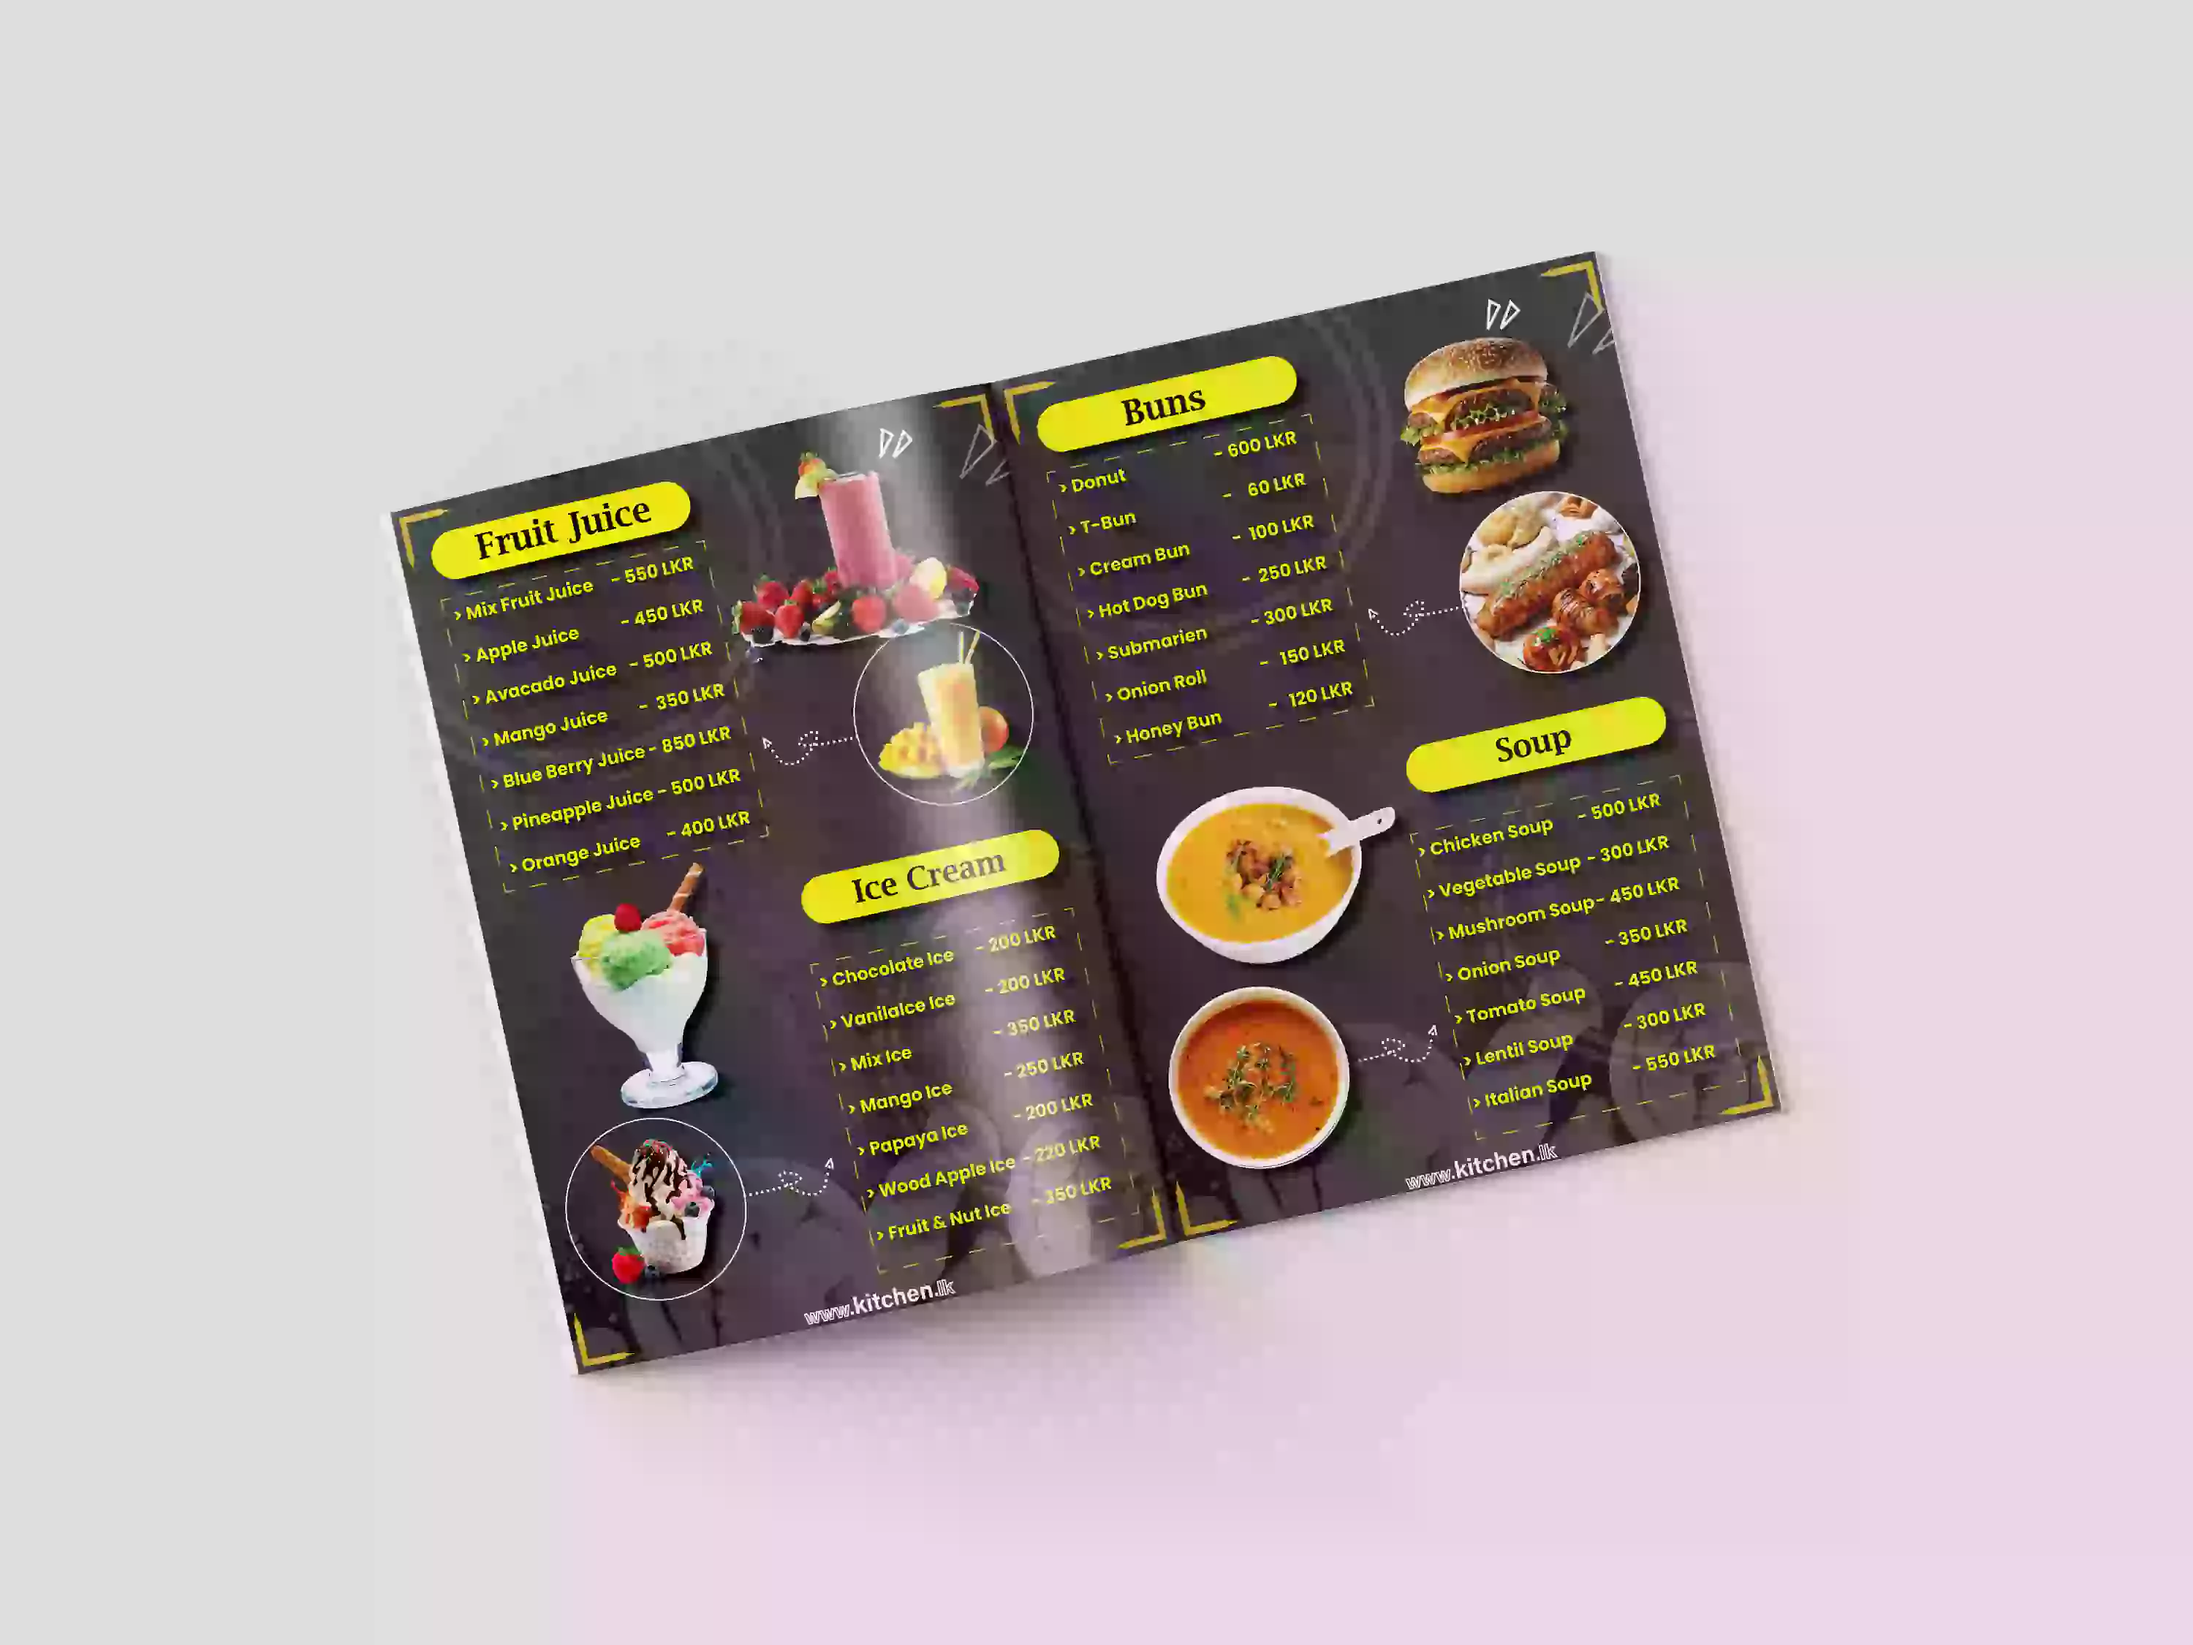
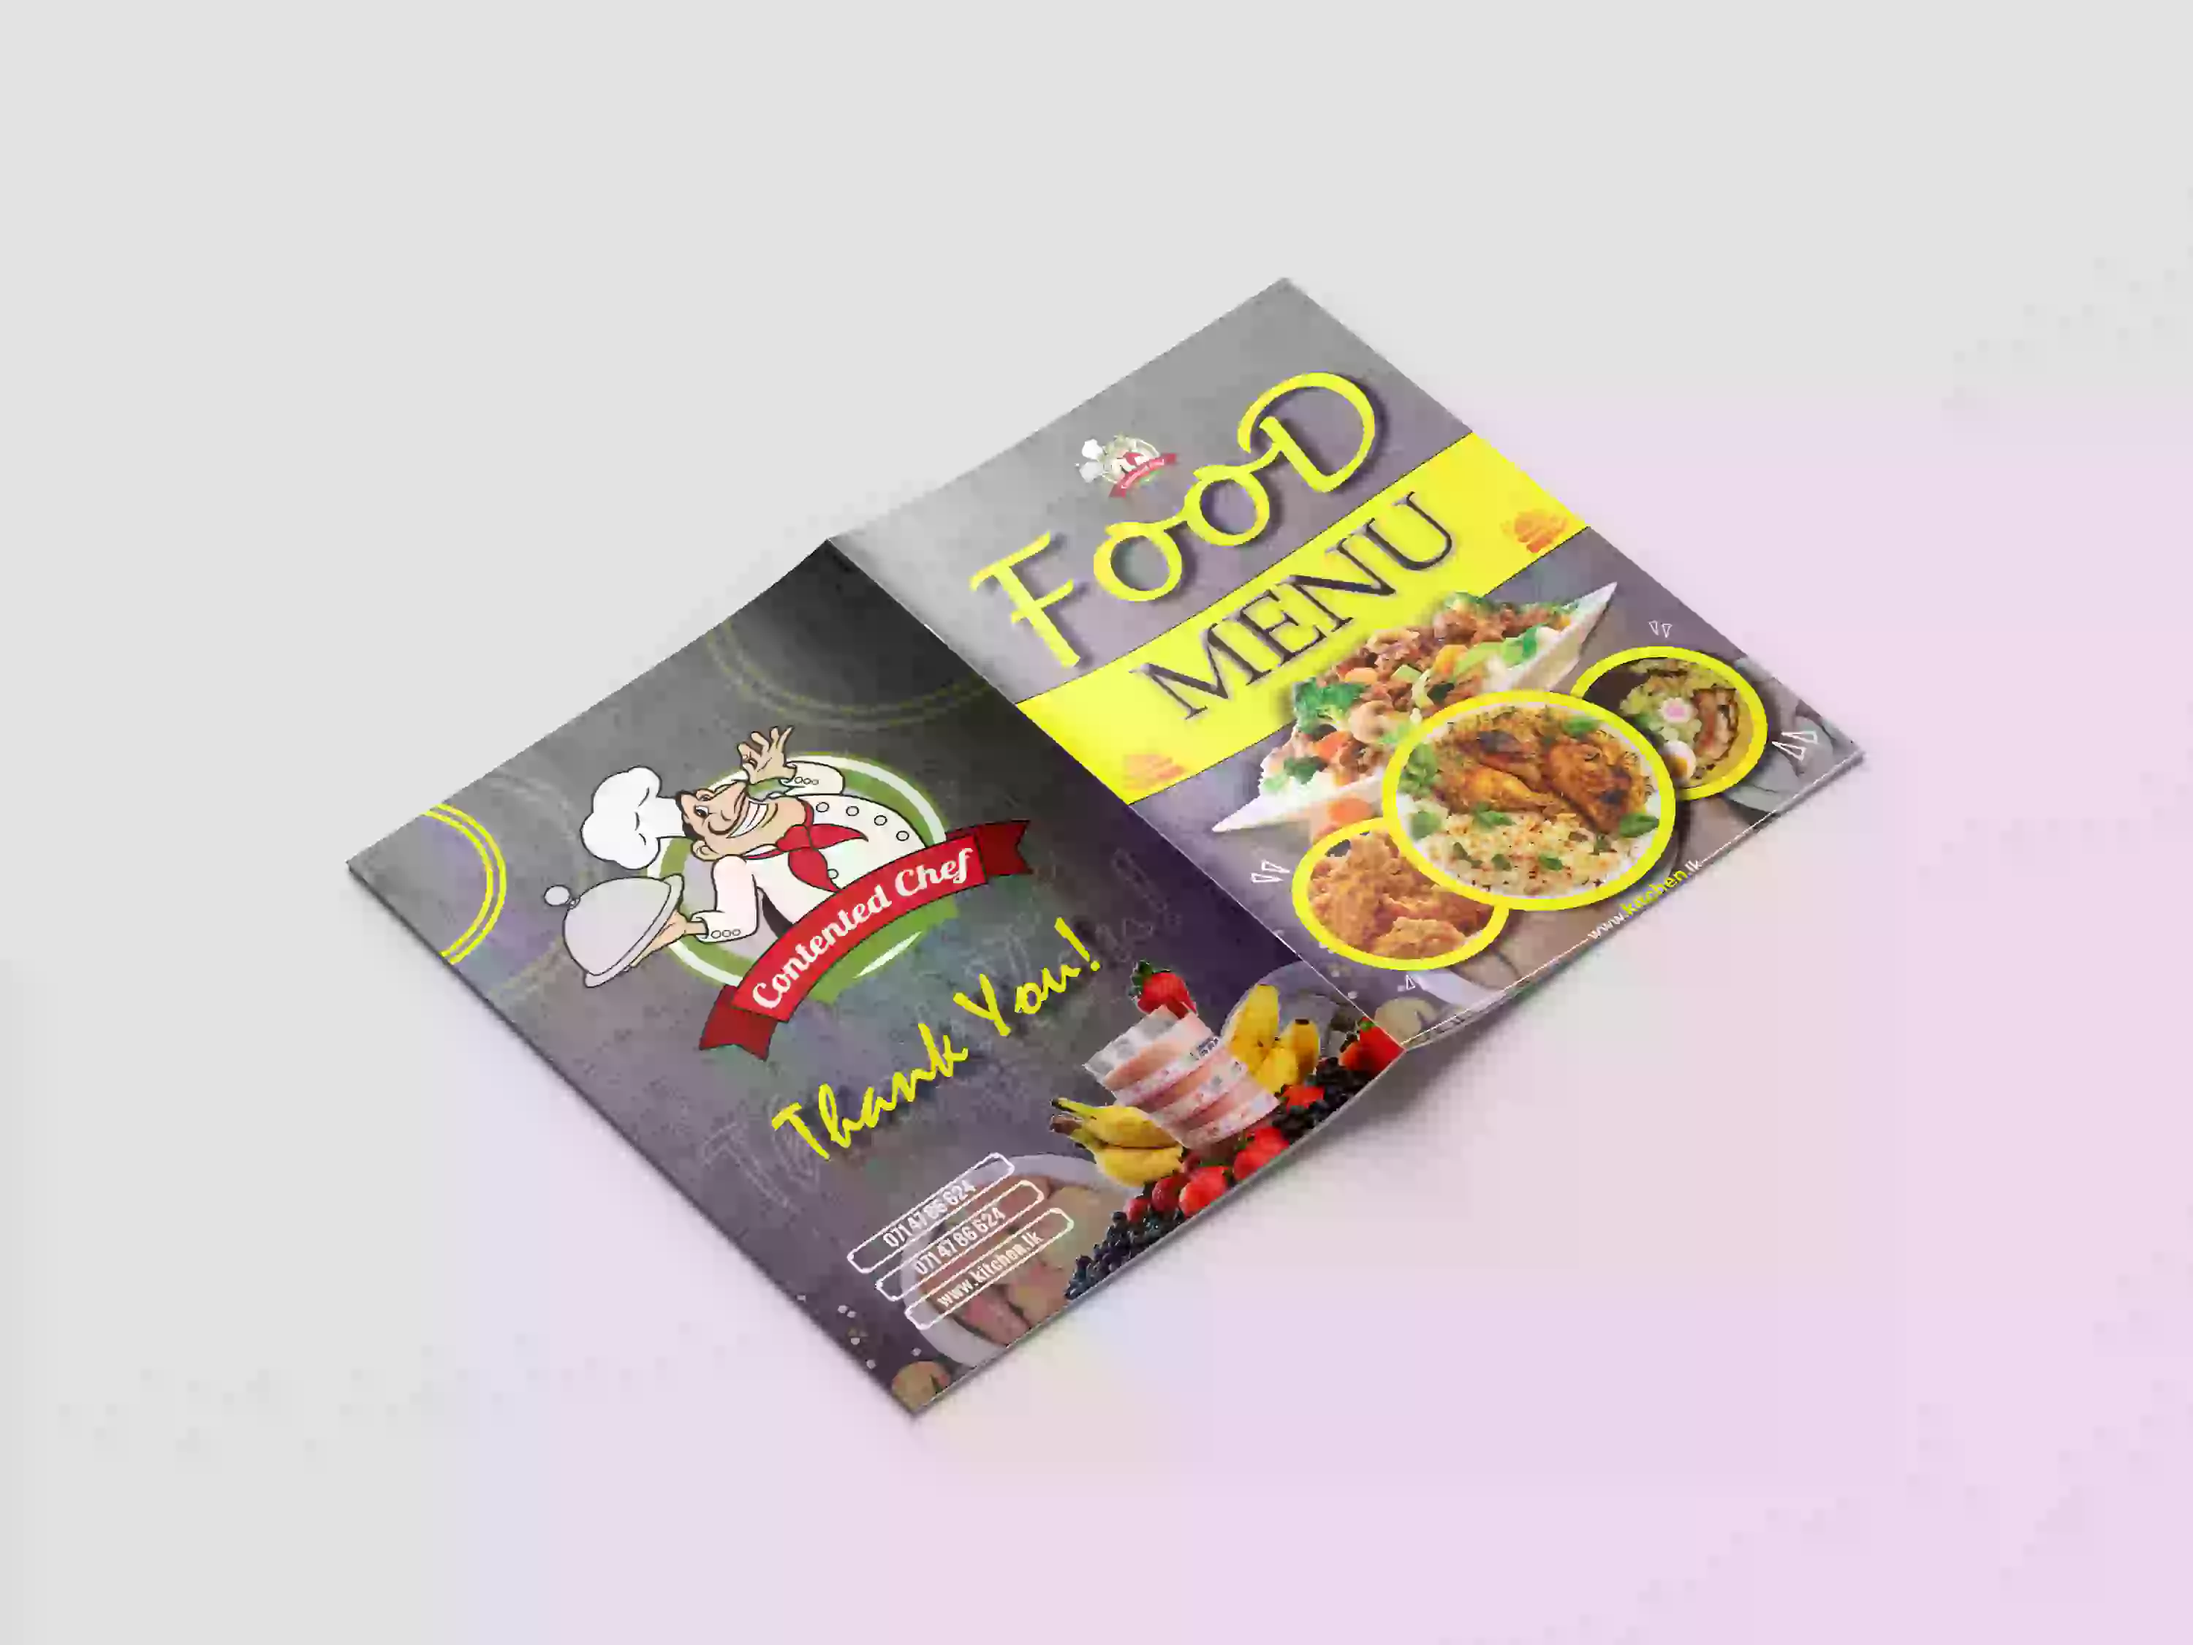
ADD DESIGN

diff --git a/portfolio.html b/portfolio.html
@@ -105,8 +105,8 @@
               <div class="swiper-wrapper">
                 <div class="swiper-slide">
                   <div class="portfolio-item">
-                    <a href="assets/img/portfolio/menu/1.webp" data-gallery="gallery-menu" class="glightbox">
-                        <img src="assets/img/portfolio/menu/1.webp" class="img-fluid" alt="Menu Design">
+                    <a href="assets/img/portfolio/menu/1.jpg" data-gallery="gallery-menu" class="glightbox">
+                        <img src="assets/img/portfolio/menu/1.jpg" class="img-fluid" alt="vouchers Design">
                     </a>
                   </div>
                 </div>
@@ -119,18 +119,117 @@
                 </div>
                 <div class="swiper-slide">
                   <div class="portfolio-item">
-                    <a href="assets/img/portfolio/menu/3.webp" data-gallery="gallery-menu" class="glightbox">
-                        <img src="assets/img/portfolio/menu/3.webp" class="img-fluid" alt="Menu Design">
+                    <a href="assets/img/portfolio/menu/3.jpeg" data-gallery="gallery-menu" class="glightbox">
+                        <img src="assets/img/portfolio/menu/3.jpeg" class="img-fluid" alt="Calendar Design">
                     </a>
                   </div>
                 </div>
+                <div class="swiper-slide">
+                  <div class="portfolio-item">
+                    <a href="assets/img/portfolio/menu/4.jpg" data-gallery="gallery-menu" class="glightbox">
+                        <img src="assets/img/portfolio/menu/4.jpg" class="img-fluid" alt="T-Shirt Design">
+                    </a>
+                  </div>
+                </div>
+                <div class="swiper-slide">
+                  <div class="portfolio-item">
+                    <a href="assets/img/portfolio/menu/5.jpeg" data-gallery="gallery-menu" class="glightbox">
+                        <img src="assets/img/portfolio/menu/5.jpeg" class="img-fluid" alt="Brochure Design">
+                    </a>
+                  </div>
+                </div><div class="swiper-slide">
+                  <div class="portfolio-item">
+                    <a href="assets/img/portfolio/menu/6.jpeg" data-gallery="gallery-menu" class="glightbox">
+                        <img src="assets/img/portfolio/menu/6.jpeg" class="img-fluid" alt="CD Docket Design">
+                    </a>
+                  </div>
+                </div>
+                <div class="swiper-slide">
+                  <div class="portfolio-item">
+                    <a href="assets/img/portfolio/menu/7.jpeg" data-gallery="gallery-menu" class="glightbox">
+                        <img src="assets/img/portfolio/menu/7.jpeg" class="img-fluid" alt="Social Media Post Design">
+                    </a>
+                  </div>
+                </div>
+                <div class="swiper-slide">
+                  <div class="portfolio-item">
+                    <a href="assets/img/portfolio/menu/8.jpeg" data-gallery="gallery-menu" class="glightbox">
+                        <img src="assets/img/portfolio/menu/8.jpeg" class="img-fluid" alt="Vector Art Design">
+                    </a>
+                  </div>
+                </div>
+                <div class="swiper-slide">
+                  <div class="portfolio-item">
+                    <a href="assets/img/portfolio/menu/9.jpeg" data-gallery="gallery-menu" class="glightbox">
+                        <img src="assets/img/portfolio/menu/9.jpeg" class="img-fluid" alt="Social Media Post Design">
+                    </a>
+                  </div>
+                </div>
+                <div class="swiper-slide">
+                  <div class="portfolio-item">
+                    <a href="assets/img/portfolio/menu/10.jpg" data-gallery="gallery-menu" class="glightbox">
+                        <img src="assets/img/portfolio/menu/10.jpg" class="img-fluid" alt="CV Design">
+                    </a>
+                  </div>
+                </div>
+                <div class="swiper-slide">
+                  <div class="portfolio-item">
+                    <a href="assets/img/portfolio/menu/11.jpg" data-gallery="gallery-menu" class="glightbox">
+                        <img src="assets/img/portfolio/menu/11.jpg" class="img-fluid" alt="Voucher Design">
+                    </a>
+                  </div>
+                </div>
+                <div class="swiper-slide">
+                  <div class="portfolio-item">
+                    <a href="assets/img/portfolio/menu/12.jpg" data-gallery="gallery-menu" class="glightbox">
+                        <img src="assets/img/portfolio/menu/12.jpg" class="img-fluid" alt="Class Card Design">
+                    </a>
+                  </div>
+                </div>
+                <div class="swiper-slide">
+                  <div class="portfolio-item">
+                    <a href="assets/img/portfolio/menu/13.jpeg" data-gallery="gallery-menu" class="glightbox">
+                        <img src="assets/img/portfolio/menu/13.jpeg" class="img-fluid" alt="Social Media Post Design">
+                    </a>
+                  </div>
+                </div>
+                <div class="swiper-slide">
+                  <div class="portfolio-item">
+                    <a href="assets/img/portfolio/menu/14.jpeg" data-gallery="gallery-menu" class="glightbox">
+                        <img src="assets/img/portfolio/menu/14.jpeg" class="img-fluid" alt="Magazine Design">
+                    </a>
+                  </div>
+                </div>
+                <div class="swiper-slide">
+                  <div class="portfolio-item">
+                    <a href="assets/img/portfolio/menu/15.jpg" data-gallery="gallery-menu" class="glightbox">
+                        <img src="assets/img/portfolio/menu/15.jpg" class="img-fluid" alt="Social Media Post Designs">
+                    </a>
+                  </div>
+                </div>
+                <div class="swiper-slide">
+                  <div class="portfolio-item">
+                    <a href="assets/img/portfolio/menu/16.jpeg" data-gallery="gallery-menu" class="glightbox">
+                        <img src="assets/img/portfolio/menu/16.jpeg" class="img-fluid" alt="Magazine Design">
+                    </a>
+                  </div>
+                </div>
+                <div class="swiper-slide">
+                  <div class="portfolio-item">
+                    <a href="assets/img/portfolio/menu/17.webp" data-gallery="gallery-menu" class="glightbox">
+                        <img src="assets/img/portfolio/menu/17.webp" class="img-fluid" alt="Menu Design">
+                    </a>
+                  </div>
+                </div>
+
+
               </div>
               <div class="swiper-pagination swiper-pagination-menu"></div>
               <div class="swiper-button-next swiper-button-next-menu"></div>
               <div class="swiper-button-prev swiper-button-prev-menu"></div>
             </div>
             <div class="portfolio-category-caption text-center mt-2">
-              <h5>Menu Design</h5>
+              <h5>Designs</h5>
             </div>
           </div>
 
